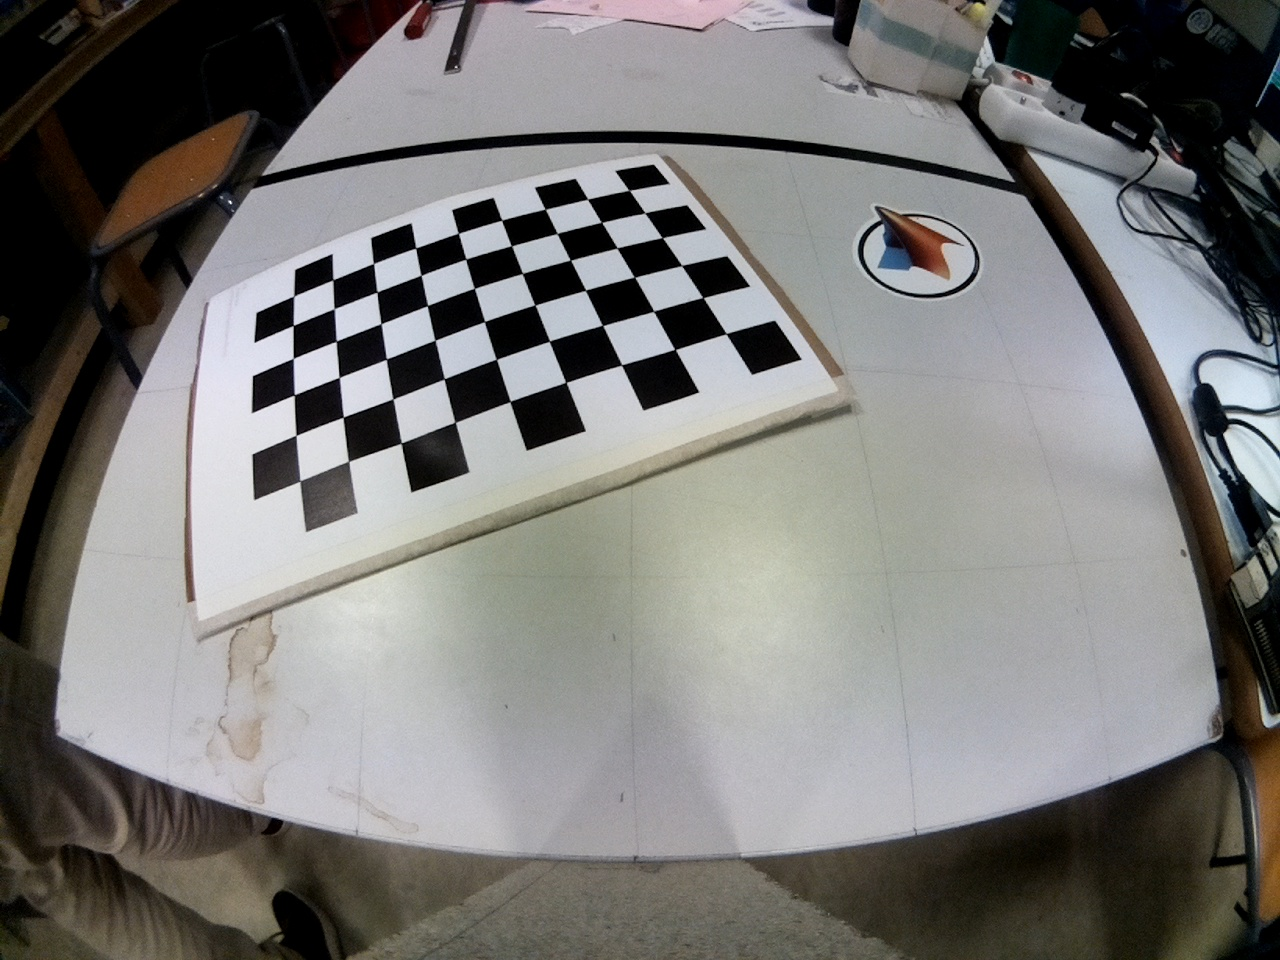
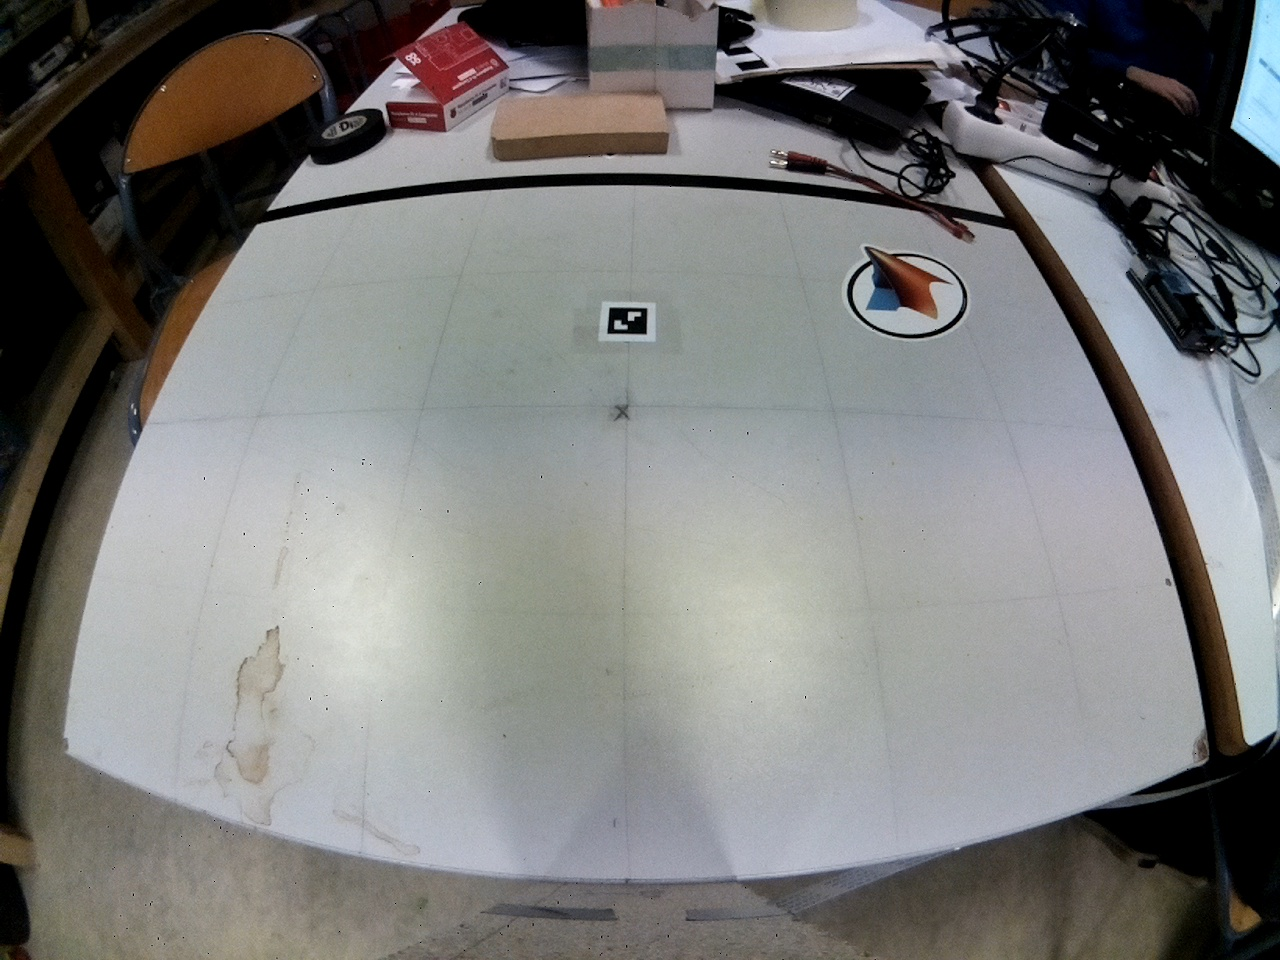
homography fail

diff --git a/homography/calib/cameracalib.py b/homography/calib/cameracalib.py
@@ -1,0 +1,167 @@
+#!/usr/bin/env python
+
+"""
+From https://opencv-python-tutroals.readthedocs.org/en/latest/py_tutorials/py_calib3d/py_calibration/py_calibration.html#calibration
+
+Calling:
+cameracalib.py  <folder> <image type> <num rows> <num cols> <cell dimension>
+
+like cameracalib.py folder_name png
+
+--h for help
+
+python3 -i cameracalib.py /home/pi/ArUco_4A/homography/calib/ jpg 9 6 25
+
+"""
+__author__ = "Tiziano Fiorenzani"
+__date__ = "01/06/2018"
+
+import numpy as np
+import cv2
+import glob
+import sys
+import argparse
+
+#---------------------- SET THE PARAMETERS
+nRows = 9
+nCols = 6
+dimension = 25 #- mm
+
+workingFolder   = ""
+imageType       = 'png'
+#------------------------------------------
+
+# termination criteria
+criteria = (cv2.TERM_CRITERIA_EPS + cv2.TERM_CRITERIA_MAX_ITER, dimension, 0.001)
+
+# prepare object points, like (0,0,0), (1,0,0), (2,0,0) ....,(6,5,0)
+objp = np.zeros((nRows*nCols,3), np.float32)
+objp[:,:2] = np.mgrid[0:nCols,0:nRows].T.reshape(-1,2)
+
+# Arrays to store object points and image points from all the images.
+objpoints = [] # 3d point in real world space
+imgpoints = [] # 2d points in image plane.
+
+if len(sys.argv) < 6:
+        print("\n Not enough inputs are provided. Using the default values.\n\n" \
+              " type -h for help")
+else:
+    workingFolder   = sys.argv[1]
+    imageType       = sys.argv[2]
+    nRows           = int(sys.argv[3])
+    nCols           = int(sys.argv[4])
+    dimension       = float(sys.argv[5])
+
+if '-h' in sys.argv or '--h' in sys.argv:
+    print("\n IMAGE CALIBRATION GIVEN A SET OF IMAGES")
+    print(" call: python cameracalib.py <folder> <image type> <num rows (9)> <num cols (6)> <cell dimension (25)>")
+    print("\n The script will look for every image in the provided folder and will show the pattern found." \
+          " User can skip the image pressing ESC or accepting the image with RETURN. " \
+          " At the end the end the following files are created:" \
+          "  - cameraDistortion.txt" \
+          "  - cameraMatrix.txt \n\n")
+
+    sys.exit()
+
+# Find the images files
+filename    = workingFolder + "/*." + imageType
+images      = glob.glob(filename)
+
+print(len(images))
+if len(images) < 9:
+    print("Not enough images were found: at least 9 shall be provided!!!")
+    sys.exit()
+
+
+
+else:
+    nPatternFound = 0
+    imgNotGood = images[1]
+
+    for fname in images:
+        if 'calibresult' in fname: continue
+        #-- Read the file and convert in greyscale
+        img     = cv2.imread(fname)
+        gray    = cv2.cvtColor(img,cv2.COLOR_BGR2GRAY)
+
+        print("Reading image ", fname)
+
+        # Find the chess board corners
+        ret, corners = cv2.findChessboardCorners(gray, (nCols,nRows),None)
+
+        # If found, add object points, image points (after refining them)
+        if ret == True:
+            print("Pattern found!")
+            #--- Sometimes, Harris cornes fails with crappy pictures, so
+            corners2 = cv2.cornerSubPix(gray,corners,(11,11),(-1,-1),criteria)
+
+            # Draw and display the corners
+            cv2.drawChessboardCorners(img, (nCols,nRows), corners2,ret)
+            cv2.imshow('img',img)
+            # cv2.waitKey(0)
+            """
+            k = cv2.waitKey(0) & 0xFF
+            if k == 27: #-- ESC Button
+                print("Image Skipped")
+                imgNotGood = fname
+                continue
+            """
+            
+            print("Image accepted")
+            nPatternFound += 1
+            objpoints.append(objp)
+            imgpoints.append(corners2)
+
+            cv2.waitKey(1)
+        else:
+            imgNotGood = fname
+
+
+cv2.destroyAllWindows()
+
+if (nPatternFound > 1):
+    print("Found %d good images" % (nPatternFound))
+    ret, mtx, dist, rvecs, tvecs = cv2.calibrateCamera(objpoints, imgpoints, gray.shape[::-1],None,None)
+
+    # Undistort an image
+    img = cv2.imread(imgNotGood)
+    h,  w = img.shape[:2]
+    print("Image to undistort: ", imgNotGood)
+    newcameramtx, roi=cv2.getOptimalNewCameraMatrix(mtx,dist,(w,h),1,(w,h))
+
+    # undistort
+    mapx,mapy = cv2.initUndistortRectifyMap(mtx,dist,None,newcameramtx,(w,h),5)
+    dst = cv2.remap(img,mapx,mapy,cv2.INTER_LINEAR)
+
+    # crop the image
+    x,y,w,h = roi
+    dst = dst[y:y+h, x:x+w]
+    print("ROI: ", x, y, w, h)
+
+    cv2.imwrite(workingFolder + "/calibresult.png",dst)
+    print("Calibrated picture saved as calibresult.png")
+    print("Calibration Matrix: ")
+    print(mtx)
+    print("Disortion: ", dist)
+
+    #--------- Save result
+    filename = workingFolder + "/cameraMatrix.txt"
+    np.savetxt(filename, mtx, delimiter=',')
+    filename = workingFolder + "/cameraDistortion.txt"
+    np.savetxt(filename, dist, delimiter=',')
+
+    mean_error = 0
+    for i in xrange(len(objpoints)):
+        imgpoints2, _ = cv2.projectPoints(objpoints[i], rvecs[i], tvecs[i], mtx, dist)
+        error = cv2.norm(imgpoints[i],imgpoints2, cv2.NORM_L2)/len(imgpoints2)
+        mean_error += error
+
+    print("total error: ", mean_error/len(objpoints))
+
+else:
+    print("In order to calibrate you need at least 9 good pictures... try again")
+
+
+
+
+

diff --git a/homography/dev_rpi_homography.py b/homography/dev_rpi_homography.py
@@ -36,8 +36,19 @@ def rotationMatrixToEulerAngles(R):
         z = 0
 
     return np.array([x, y, z])
+    
+def drawCorners(corners, frame, color):
+    i = 0
+    for corner in corners:
+        corner_tuple = tuple(corner.tolist())
+        cv2.circle(frame, (int(corner_tuple[0]), int(corner_tuple[1])), 5, color, -1)
+        
+        font = cv2.FONT_HERSHEY_SIMPLEX
+        cv2.putText(frame, str(i), (int(corner_tuple[0]), int(corner_tuple[1])), font, 1, color, 2,cv2.LINE_AA)
+        i += 1
+
 #--- DEFINE
-x0, y0 = -222, -45
+x0, y0 = -213-9, 65
 
 
 #--- DEFINE Tag
@@ -49,11 +60,14 @@ coord = np.zeros((len(ids_to_find), 7), dtype = np.int16)
 old_coord = np.zeros((len(ids_to_find), 7), dtype = np.int16)
 
 #--- DEFINE the camera distortion arrays
-#camera_matrix = np.array([[309.65140551, 0, 299.7942552], [0, 309.63299386, 236.80161718], [ 0, 0, 1]])
+#camera_matrix = np.array([[309.65140551, 0, 299.7942552], [0, 309.63299386, 236.80161718], [ 0, 0, 1]])*0.5
 #camera_distortion = np.array([-0.32061628, 0.13711123, 0.0058947, 0.00258218, -0.03117783])
 
-camera_matrix = np.array([[613.80715183, 0, 671.24584852], [0, 614.33915691, 494.57901986], [0, 0, 1]])#*0.5
-camera_distortion = np.array([[-0.30736199, 0.09435416, -0.00032245, -0.00106545, -0.01286428]])
+camera_matrix = np.array([[471.14915486,   0.        , 637.52234699],
+       [  0.        , 448.93343667, 784.36266076],
+       [  0.        ,   0.        ,   1.        ]])
+
+camera_distortion = np.array([[-0.16381624,  0.01563538, -0.06420826,  0.00137489, -0.00082846]])
 
 
 #--- DEFINE dictionary
@@ -63,7 +77,7 @@ parameters =  aruco.DetectorParameters_create()
 #--- initialize the camera and grab a reference to the raw camera capture
 camera = PiCamera()
 camera.rotation = 180
-camera.iso = 1600 # max ISO to force exposure time to minimum to get less motion blur
+camera.iso = 100 # max ISO to force exposure time to minimum to get less motion blur
 #camera.exposure_mode = "sports"
 #camera.resolution = (1280, 720)
 #camera.resolution = (640, 480) 
@@ -75,20 +89,48 @@ rawCapture = PiRGBArray(camera, size=camera.resolution)
 #-- Font for the text in the image
 font = cv2.FONT_HERSHEY_PLAIN
 
-#--- 180 deg rotation matrix around the x axis
-R_flip  = np.zeros((3,3), dtype=np.float32)
-R_flip[0,0] = 1.0
-R_flip[1,1] = -1.0
-R_flip[2,2] = -1.0
-
 #--- start imutils fps counter
 fps = FPS().start()
+
+initial_corners = np.array([
+		[611., 308.],
+		[648., 309.],
+		[648., 336.],
+		[609., 335.]
+	], dtype = np.float32)
+	
+initial_terrain_corners = np.array([
+		[254., 200.],
+		[1028., 209.],
+		[1244., 746.],
+		[35., 739.]
+	], dtype = np.float32)
+       
+offset = -110
+
+destination = np.array([
+		[1280/2 - 39/2, 960/2 - 39/2 + offset],
+		[1280/2 + 39/2, 960/2 - 39/2 + offset],
+		[1280/2 + 39/2, 960/2 + 39/2 + offset],
+		[1280/2 - 39/2, 960/2 + 39/2 + offset]
+    ], dtype = np.float32)
+    
+destination_terrain = np.array([
+		[175, 175],
+		[1280-175, 175],
+		[1280-175, 960-175],
+		[175, 960-175]
+    ], dtype = np.float32)
+
+
+perspectiveTransform = cv2.getPerspectiveTransform(initial_terrain_corners, destination_terrain)
 
 #--- LOOP - capture frames from the camera
 for frame_pi in camera.capture_continuous(rawCapture, format="bgr", use_video_port=True):
     frame = frame_pi.array
+    frame = cv2.warpPerspective(frame, perspectiveTransform, (1280, 960))
     #gray = cv2.cvtColor(frame, cv2.COLOR_BGR2GRAY)
-    
+
     #-- Find all the aruco markers in the image
     corners, ids, rejected = aruco.detectMarkers(image=frame, dictionary=aruco_dict, parameters=parameters, cameraMatrix=camera_matrix, distCoeff=camera_distortion)
     
@@ -112,8 +154,8 @@ for frame_pi in camera.capture_continuous(rawCapture, format="bgr", use_video_po
                 coord[i][2] = (-tvec[id_pos][0][1] - y0)
                 coord[i][3] = tvec[id_pos][0][2]
                 
-                coord[i][1] = coord[i][1]# - coord[i][1]*(19/400)
-                coord[i][2] = coord[i][2]# - coord[i][2]*(-23/200)
+                coord[i][1] = coord[i][1]
+                coord[i][2] = coord[i][2]
 
                 """
                 R_ct = np.matrix(cv2.Rodrigues(rvec[id_pos][0]))
@@ -134,7 +176,11 @@ for frame_pi in camera.capture_continuous(rawCapture, format="bgr", use_video_po
     old_coord = coord
     
     # show the frame
-    #frame = cv2.undistort(frame, camera_matrix, camera_distortion)
+    
+    
+    drawCorners(initial_terrain_corners, frame, (0, 0, 254))
+    drawCorners(destination_terrain, frame, (0, 254, 0))
+    frame = cv2.undistort(frame, camera_matrix, camera_distortion)
     cv2.imshow("Frame", frame)
     
     os.system('clear')
@@ -151,6 +197,7 @@ for frame_pi in camera.capture_continuous(rawCapture, format="bgr", use_video_po
     if cv2.waitKey(1) & 0xFF == ord('q'):
         break
     
+
 
 # stop the timer and display FPS information
 fps.stop()

diff --git a/homography/calib/calib.py b/homography/calib/calib.py
@@ -1,0 +1,54 @@
+# Credit: Tiziano Fiorenzani https://github.com/tizianofiorenzani/how_do_drones_work
+
+# import the necessary packages
+from picamera.array import PiRGBArray
+from picamera import PiCamera
+import numpy as np
+import cv2, time
+
+
+#--- initialize the camera and grab a reference to the raw camera capture
+camera = PiCamera()
+camera.rotation = 180
+camera.iso = 1600 # max ISO to force exposure time to minimum to get less motion blur
+camera.resolution = (1280, 960)
+camera.framerate = 30
+rawCapture = PiRGBArray(camera, size=camera.resolution)
+
+i=0
+
+time.sleep(2)
+
+perspectiveTransform = np.array([[ 1.48149190e+00,  8.32169939e-01, -3.23371591e+02],
+       [-3.07292188e-02,  2.43886163e+00, -2.60605765e+02],
+       [-2.87068424e-05,  1.30392453e-03,  1.00000000e+00]])
+
+
+#--- LOOP - capture frames from the camera
+for frame_pi in camera.capture_continuous(rawCapture, format="bgr", use_video_port=True):
+    frame = frame_pi.array
+    frame = cv2.warpPerspective(frame, perspectiveTransform, (1280, 960))
+    
+    # show the frame
+    cv2.imshow("Frame", frame)
+    
+    # clear the stream in preparation for the next frame
+    rawCapture.truncate(0)
+
+    # if the `q` key was pressed, break from the loop
+    if cv2.waitKey(1) & 0xFF == ord('q'):
+        break
+    
+    frame_write_str = "calib_pic_" + str(i) + ".jpg"
+    cv2.imwrite(frame_write_str, frame)    
+    time.sleep(2)
+    
+    if i > 100: break
+    
+    i += 1
+    
+    
+cv2.destroyAllWindows()
+
+print("[INFO] saved " + str(i) + " frames")
+

diff --git a/basic_frame_cap.py b/basic_frame_cap.py
@@ -15,10 +15,10 @@ camera_distortion = np.array([-0.32061628, 0.13711123, 0.0058947, 0.00258218, -0
 #--- initialize the camera and grab a reference to the raw camera capture
 camera = PiCamera()
 camera.rotation = 180
-camera.iso = 1600 # max ISO to force exposure time to minimum to get less motion blur
+camera.iso = 400 # max ISO to force exposure time to minimum to get less motion blur
 #camera.exposure_mode = "sports"
 #camera.resolution = (1280, 720)
-camera.resolution = (640, 480) 
+camera.resolution = (1920, 1080) 
 #camera.resolution = (1640, 922)
 camera.framerate = 30
 rawCapture = PiRGBArray(camera, size=camera.resolution)
